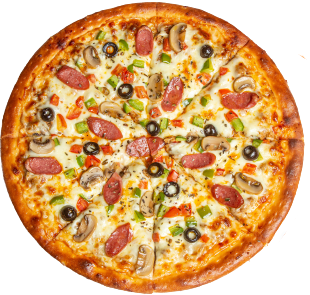
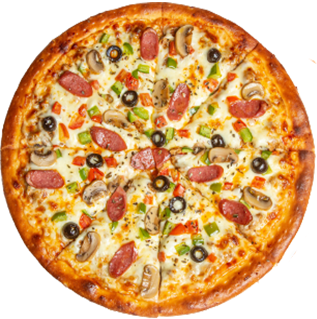
New images

diff --git a/public/assets/js/pizzas.js b/public/assets/js/pizzas.js
@@ -21,6 +21,13 @@ let pizzaList = [
         img:"assets/img/pizzas/pizza3.png",
         id:2,
         quantity: 1,
+    },
+    {
+        name:"pizza04",
+        description:"Pizza de verduras y aceitunas negras",
+        img:"assets/img/pizzas/pizza4.png",
+        id:3,
+        quantity: 1,
     }
 ]
 

diff --git a/public/assets/css/buttons.css b/public/assets/css/buttons.css
@@ -318,8 +318,4 @@
         height: 30px;
         padding-right: 6px;
     }
-
-<<<<<<< HEAD
-=======
 }
->>>>>>> cfbd5a43809b30e5e56afa359c75a753f66028fd
